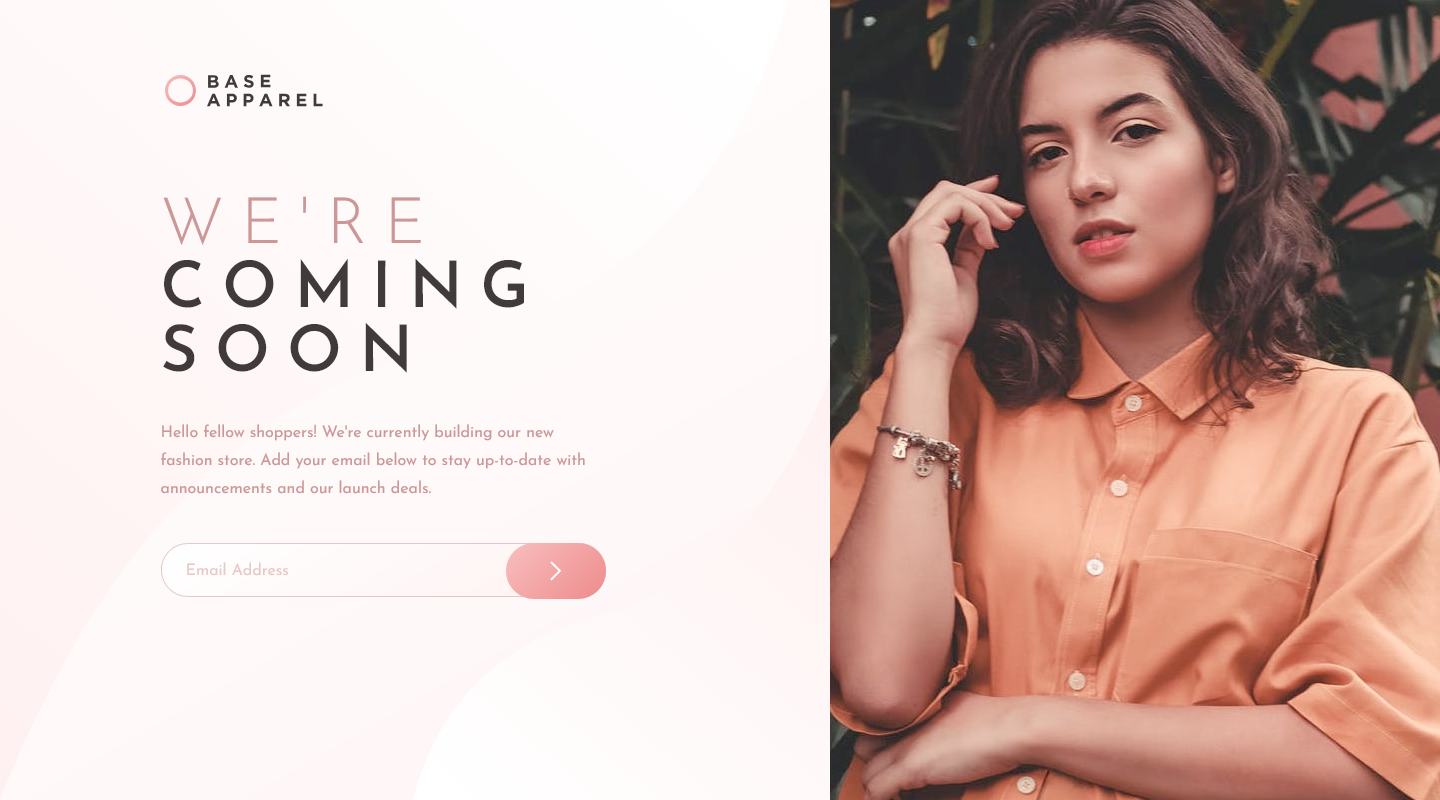
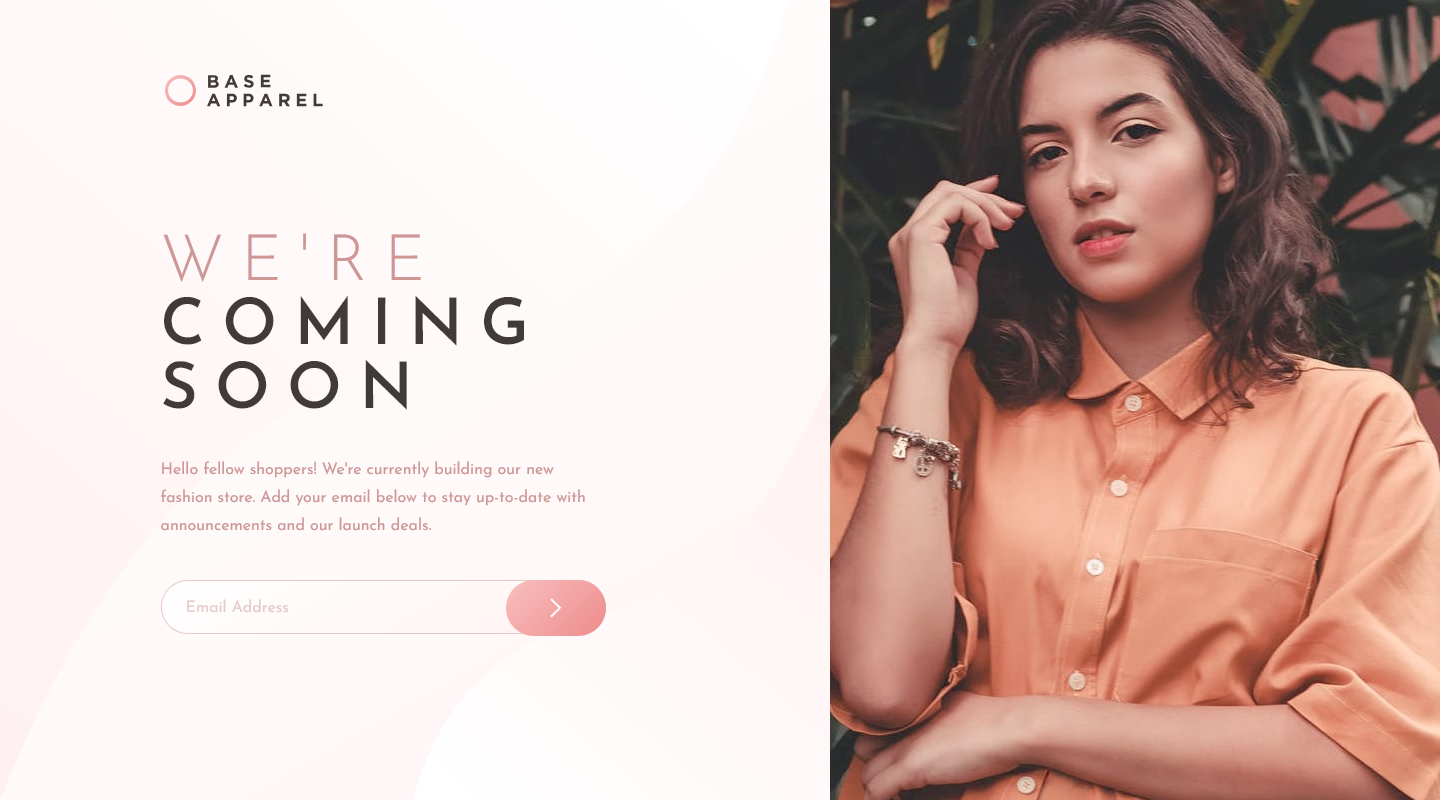
update main content margin

Changed region(s): [[0.0938, 0.25, 0.4062, 0.7188], [0.3438, 0.6562, 0.4375, 0.8125], [0.125, 0.75, 0.1875, 0.7812]]

diff --git a/src/App.jsx b/src/App.jsx
@@ -50,11 +50,11 @@ function App() {
         </svg>
       </div>
 
-      <div className="-z-20 flex flex-col items-center gap-16 bg-background lg:flex-row-reverse">
+      <div className="-z-20 flex flex-col items-center gap-16 bg-background lg:flex-row-reverse lg:items-start">
         {/* hero */}
         <div className="z-10 min-h-[250px] w-full bg-hero-mobile bg-cover bg-no-repeat lg:h-[800px] lg:max-w-[610px] lg:bg-hero-desktop"></div>
         {/* main content */}
-        <div className="z-10 px-8 pb-[92px] text-center text-desaturated-red lg:mx-auto lg:max-w-[445px] lg:text-left xl:p-0">
+        <div className="z-10 px-8 pb-[92px] text-center text-desaturated-red lg:mx-auto lg:mt-[232px] lg:max-w-[445px] lg:text-left xl:p-0">
           <h2 className="mb-4 text-[40px] font-light leading-[42px] tracking-[10.825px] lg:mb-8 lg:text-[64px] lg:leading-[64px] lg:tracking-[17.321px]">
             WE'RE{" "}
             <span className="font-semibold text-dark-grayish-red">
